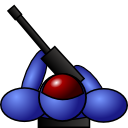
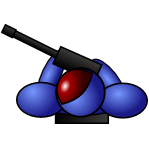
amélioration du graphisme

diff --git a/src/einheri/common/engineGraphic/WorldDrawer.cpp b/src/einheri/common/engineGraphic/WorldDrawer.cpp
@@ -194,8 +194,8 @@ void WorldDrawer::paintHeroes() {
         glPushMatrix();
         Hero *hero = *it;
         glTranslatef(hero->GetPosition().getX(), hero->GetPosition().getY(), 0);
-        glRotatef(47+hero->GetAngle() * 180 / M_PI, 0, 0, 1);
-        glTranslatef(0.0, -0.3, 0);
+        glRotatef(30+hero->GetAngle() * 180 / M_PI, 0, 0, 1);
+        glTranslatef(0.0, -0.1, 0);
         float size = 0.5;
         float texOffset = 1;
 
@@ -205,13 +205,13 @@ void WorldDrawer::paintHeroes() {
 
             glBegin(GL_QUADS);
             glColor3f(1, 1, 1);
-            glTexCoord2f(texOffset,0+0.05);
+            glTexCoord2f(texOffset,0);
             glVertex3f(-size, -size, 0.f);
-            glTexCoord2f(0,0+0.05);
+            glTexCoord2f(0,0);
             glVertex3f(size, -size, 0.f);
-            glTexCoord2f(0,texOffset+0.05);
+            glTexCoord2f(0,texOffset);
             glVertex3f(size, size, 0.f);
-            glTexCoord2f(texOffset,texOffset+0.05);
+            glTexCoord2f(texOffset,texOffset);
             glVertex3f(-size, size, 0.f);
 
 

diff --git a/src/einheri/common/engineGame/EngineGame.cpp b/src/einheri/common/engineGame/EngineGame.cpp
@@ -130,12 +130,12 @@ void EngineGame::processEventPrimaryActionBegin(const EventPrimaryActionBegin& e
     Hero * hero = player->getHero();
 
     EinValue dist = 1.2;
-    EinValue dist2 = -0.3;
+    EinValue dist2 = -0.2;
 
     Projectile *projectile = new PlasmaBall();
     projectile->SetPosition(Vector(
-            hero->GetPosition().getX() + dist2 * cos(hero->GetAngle()+0.83)+ dist * cos(hero->GetAngle()) ,
-            hero->GetPosition().getY() + dist2 * sin(hero->GetAngle()+0.83)+ dist * sin(hero->GetAngle())));
+            hero->GetPosition().getX() + dist2 * cos(hero->GetAngle()+0.52)+ dist * cos(hero->GetAngle()) ,
+            hero->GetPosition().getY() + dist2 * sin(hero->GetAngle()+0.52)+ dist * sin(hero->GetAngle())));
     projectile->SetAngle(hero->GetAngle());
     projectile->SetSpeed(Vector(10 * cos(hero->GetAngle()), 10 * sin(hero->GetAngle())));
     projectile->SetTargetedSpeed(projectile->GetSpeed());

diff --git a/src/einheri/common/engineGraphic/EngineGraphic.cpp b/src/einheri/common/engineGraphic/EngineGraphic.cpp
@@ -67,7 +67,7 @@ void EngineGraphic::initWindow() {
     Settings.DepthBits = 24; // Request a 24 bits depth buffer
     Settings.StencilBits = 8; // Request a 8 bits stencil buffer
     Settings.AntialiasingLevel = 8; // Request 2 levels of antialiasing
-    renderWindow = new sf::RenderWindow(sf::VideoMode(1650, 1080, 32), "Einheri", sf::Style::Close | sf::Style::Resize, Settings);
+    renderWindow = new sf::RenderWindow(sf::VideoMode(1280, 1024, 32), "Einheri", sf::Style::Close | sf::Style::Resize, Settings);
     renderWindow->ShowMouseCursor(false);
     renderWindow->PreserveOpenGLStates(true);
     manager->GetCameraModel()->SetWindowSize(Vector(renderWindow->GetWidth(), renderWindow->GetHeight()));
